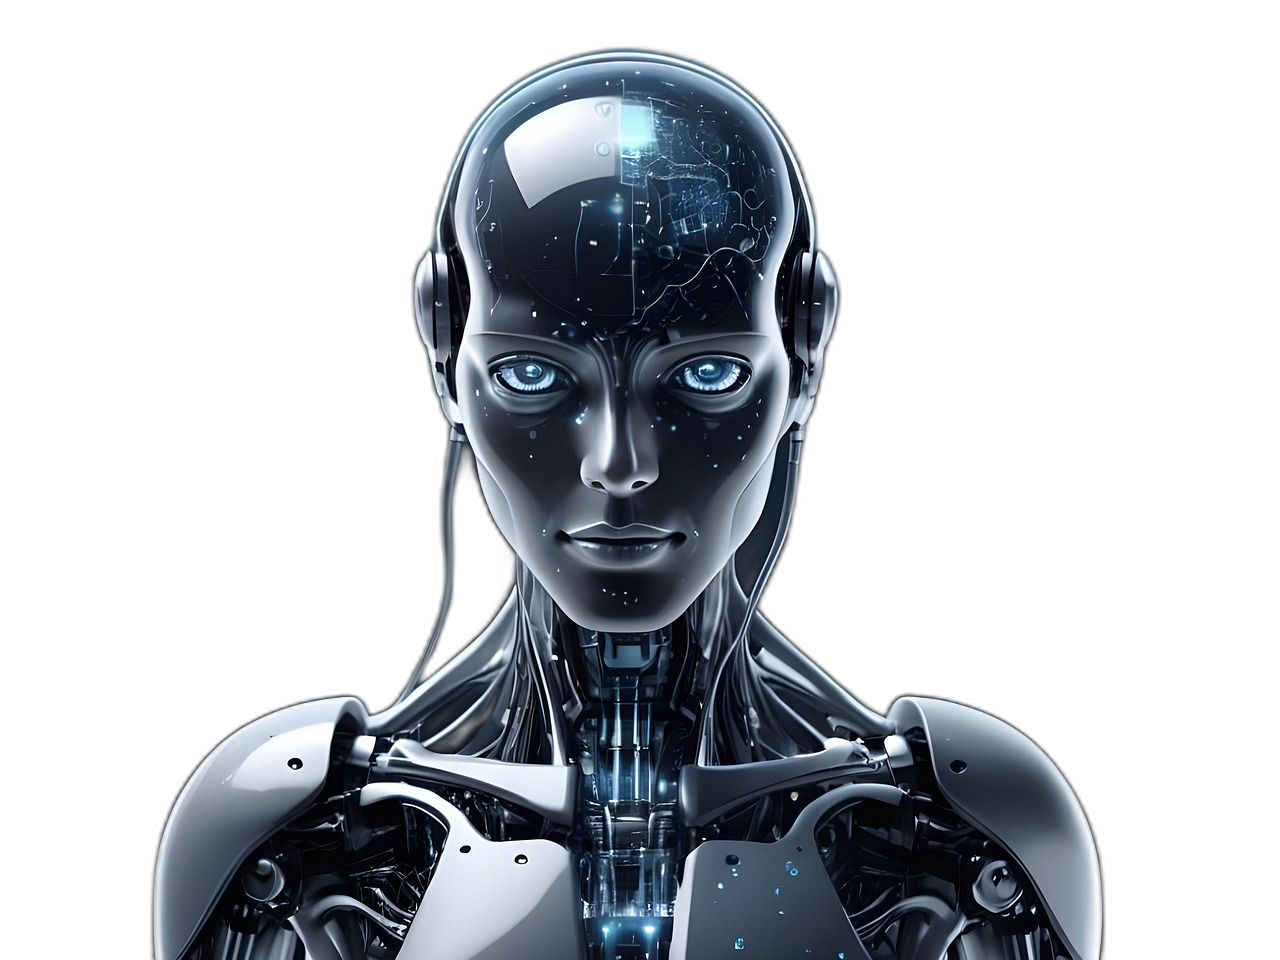
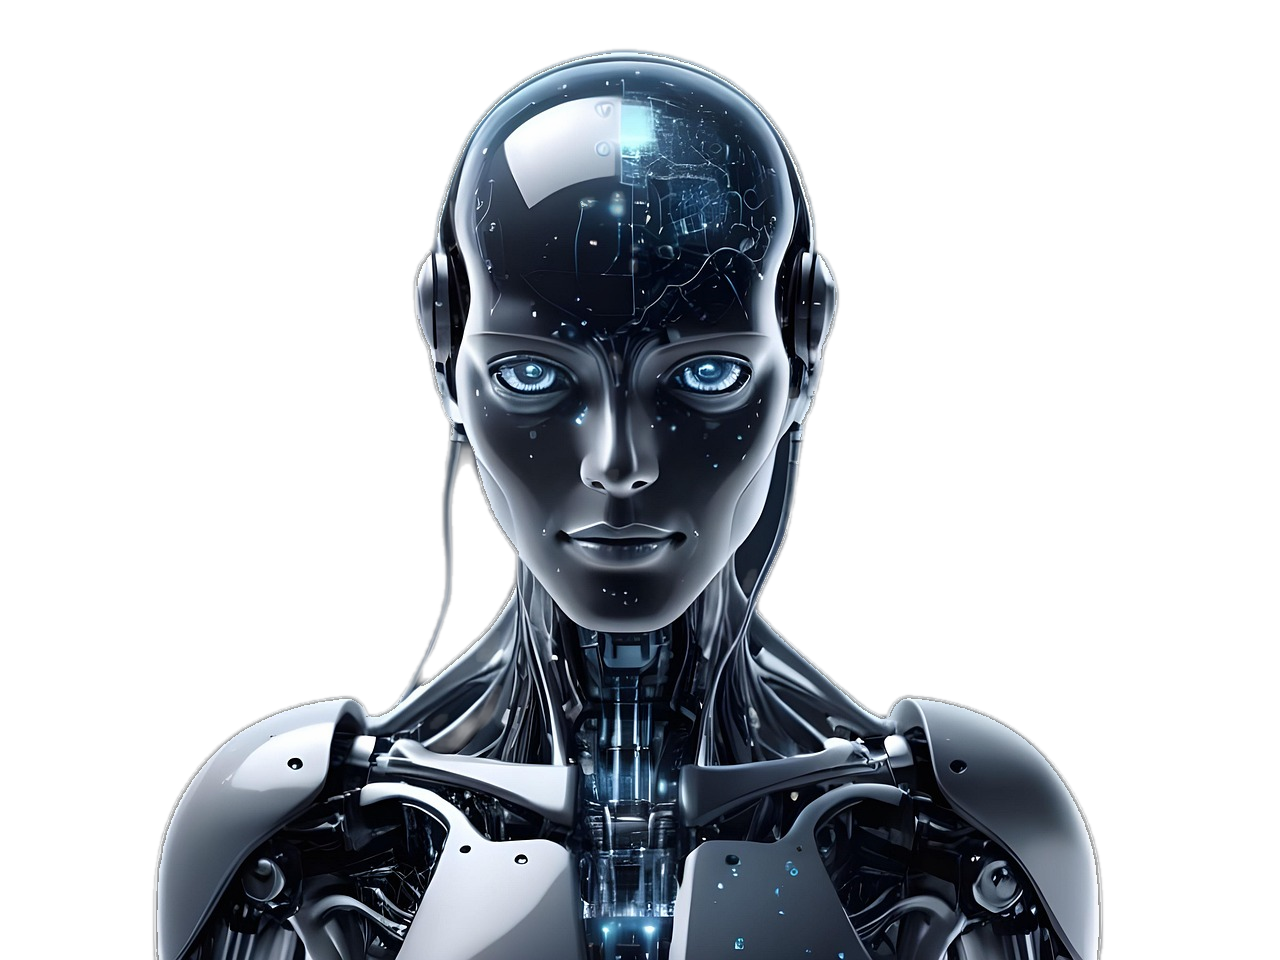
Robot IA : image re-nettoyée, masque radial anti-rectangle, animation vivante, lumière bleue renforcée, fond manifeste éclairci

diff --git a/css/index.css b/css/index.css
@@ -699,18 +699,18 @@ section {
   right: 40px;
   z-index: 1;
   pointer-events: none;
+  filter: drop-shadow(0 0 35px rgba(60,140,255,0.25));
 }
-/* Lumière qui trace le contour du robot */
-/* Lumière au-dessus de la tête du robot */
+/* Lumière bleue au-dessus de la tête du robot */
 .robot-wrap::before {
   content: "";
   position: absolute;
-  top: 30px;
+  top: 10px;
   left: 55%;
   transform: translateX(-50%);
-  width: 40px;
-  height: 40px;
-  background: radial-gradient(circle, rgba(100,200,255,1) 0%, rgba(100,200,255,0.5) 35%, transparent 70%);
+  width: 90px;
+  height: 90px;
+  background: radial-gradient(circle, rgba(80,160,255,0.9) 0%, rgba(60,140,255,0.5) 30%, rgba(40,120,255,0.2) 55%, transparent 75%);
   border-radius: 50%;
   z-index: 2;
   pointer-events: none;
@@ -720,19 +720,28 @@ section {
   width: 360px;
   height: auto;
   display: block;
-  opacity: 0.85;
-  filter: drop-shadow(0 0 30px rgba(78,255,206,0.15));
-  animation: robot-float 6s ease-in-out infinite;
-  mask-image: linear-gradient(to bottom, #000 60%, transparent 100%);
-  -webkit-mask-image: linear-gradient(to bottom, #000 60%, transparent 100%);
+  opacity: 1;
+  border: none;
+  outline: none;
+  background: transparent;
+  filter: brightness(1.23);
+  animation: robot-float 4s ease-in-out infinite;
+  mask-image:
+    linear-gradient(to bottom, #000 55%, transparent 100%),
+    radial-gradient(ellipse 80% 100% at 50% 30%, #000 40%, transparent 85%);
+  -webkit-mask-image:
+    linear-gradient(to bottom, #000 55%, transparent 100%),
+    radial-gradient(ellipse 80% 100% at 50% 30%, #000 40%, transparent 85%);
+  mask-composite: intersect;
+  -webkit-mask-composite: source-in;
 }
 @keyframes robot-float {
   0%, 100% { transform: translateY(0); }
-  50%      { transform: translateY(-22px); }
+  50%      { transform: translateY(-20px); }
 }
 @keyframes robot-head-glow {
-  0%, 100% { opacity: 0; transform: translateX(-50%) scale(0.6); }
-  50%      { opacity: 1; transform: translateX(-50%) scale(1); }
+  0%, 100% { opacity: 0.3; transform: translateX(-50%) scale(0.8); }
+  50%      { opacity: 1; transform: translateX(-50%) scale(1.1); }
 }
 .concept::before {
   content: "";
@@ -2147,7 +2156,8 @@ footer {
   object-fit: cover;
   object-position: center;
   z-index: 0;
-  opacity: 0.5;
+  opacity: 0.7;
+  filter: brightness(1.2);
   pointer-events: none;
 }
 #manifeste-shader-canvas {

diff --git a/SESSION.md b/SESSION.md
@@ -271,3 +271,47 @@ Le GPU Intel UHD 620 était saturé à 100%. Optimisations appliquées :
 - `js/manifeste-carousel.js` — chemins vidéo corrigés, 6 cartes, 60 particules, clip-path inline, DOM caché
 - `css/index.css` — suppression clip-path CSS sur `.ev-card-normal` et `.ev-card-ascii`
 - `SESSION.md` — mise à jour
+
+---
+
+## Session 6 — Amélioration robot IA + fond manifeste
+**Date** : 27 février 2026
+
+### 1. Nettoyage image Robot2.png
+- **Problème** : contours de découpe visibles (halo blanc/gris du fond original), rectangle de l'image apparent sur fond sombre
+- **Script Python (Pillow)** : érosion 2px de la frange alpha, suppression des pixels blancs de bordure, blur doux (0.8px) pour lisser les bords
+- **Backup** conservé dans `assets/Robot2_backup.png`
+
+### 2. Suppression du contour rectangulaire
+- **Cause** : `mask-image: linear-gradient(to bottom)` ne masquait que le bas → contour rectangulaire visible sur les côtés et le haut
+- **Fix** : masque double combiné avec `mask-composite: intersect` :
+  - `radial-gradient(ellipse 80% 100% at 50% 30%)` — fondu sur les côtés et le haut
+  - `linear-gradient(to bottom, #000 55%, transparent 100%)` — fondu progressif en bas
+- `drop-shadow` déplacé de `.robot-img` vers `.robot-wrap` (parent) pour éviter le halo rectangulaire
+- `opacity: 1` + `background: transparent; border: none; outline: none;` pour supprimer tout rendu parasite
+
+### 3. Animation robot plus vivante
+- **Vitesse** : `6s` → `4s` (plus rapide)
+- **Amplitude** : `22px` → `20px`
+- **Résultat** : mouvement flottant bien visible et vivant
+
+### 4. Lumière bleue au-dessus de la tête renforcée
+- **Taille** : `40x40px` → `90x90px`
+- **Position** remontée (`top: 30px` → `top: 10px`)
+- **Couleur** plus bleue intense (`rgba(80,160,255,0.9)`)
+- **Opacité min** : `0` → `0.3` (toujours visible, ne disparaît plus)
+- **Pulsation** plus ample (`scale 0.8→1.1`)
+
+### 5. Luminosité du robot
+- Ajout `filter: brightness(1.23)` sur `.robot-img` pour éclaircir le visage trop sombre
+
+### 6. Image de fond section Manifeste
+- **Opacité** augmentée : `0.5` → `0.7`
+- **Luminosité** : ajout `filter: brightness(1.2)`
+- Image de fond (visage futuriste) plus visible et colorée
+
+### Fichiers modifiés
+- `assets/Robot2.png` — image re-nettoyée (frange supprimée, bords lissés)
+- `assets/Robot2_backup.png` — backup de l'original
+- `css/index.css` — masque radial+linéaire, animation 4s, lumière bleue renforcée, brightness robot et manifeste
+- `SESSION.md` — mise à jour
